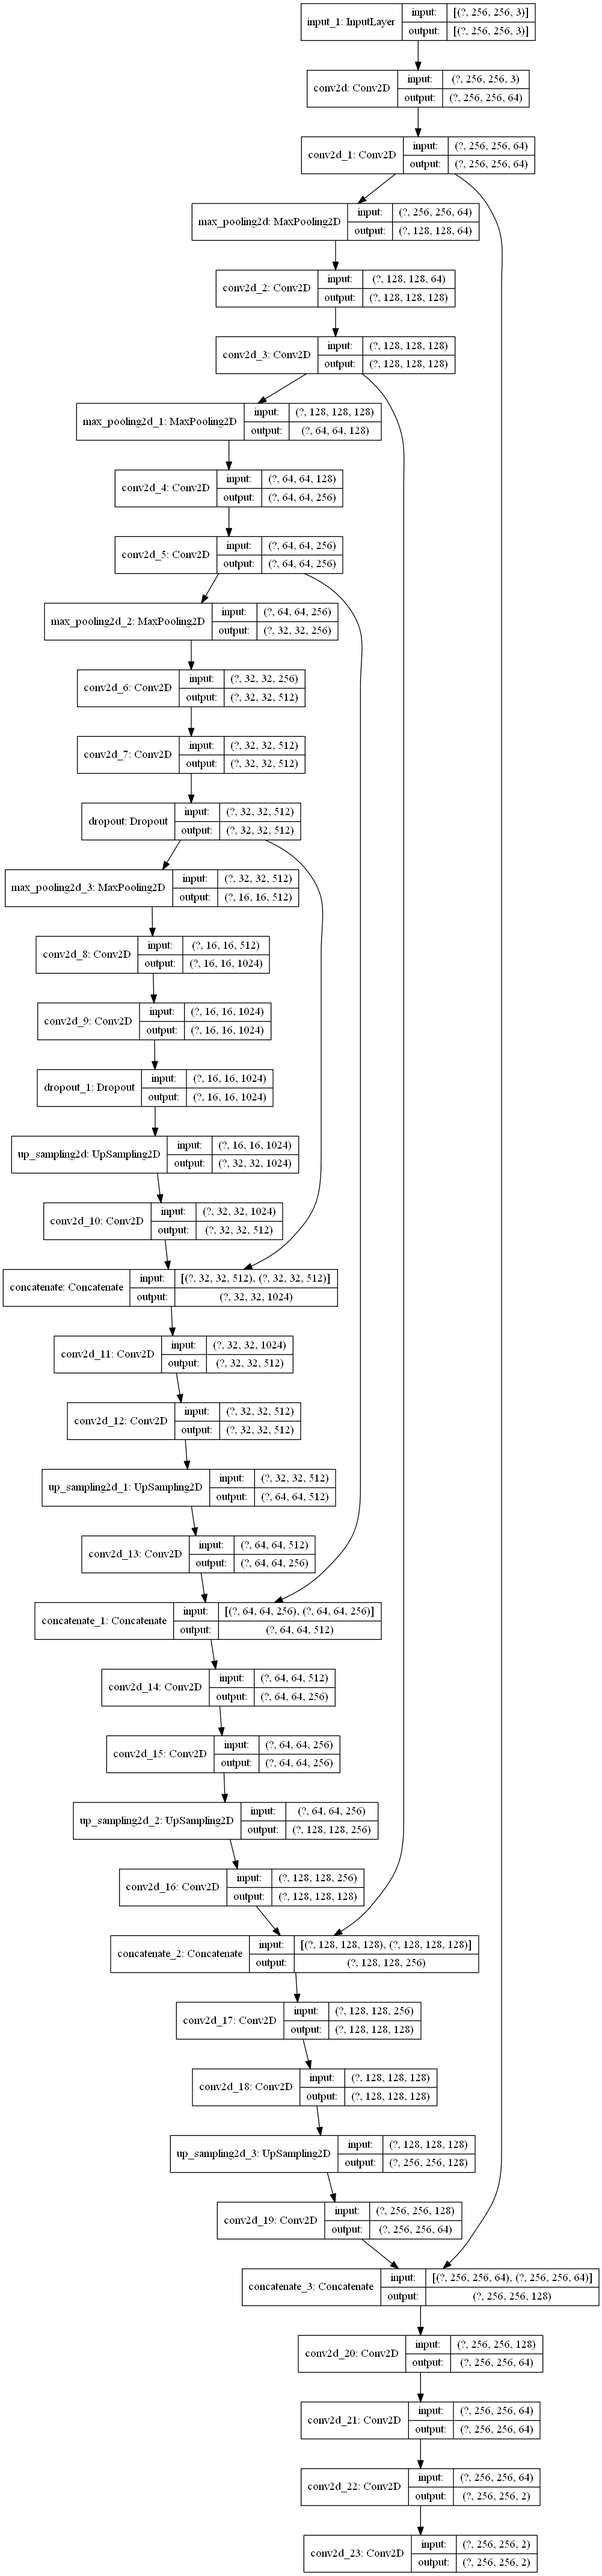
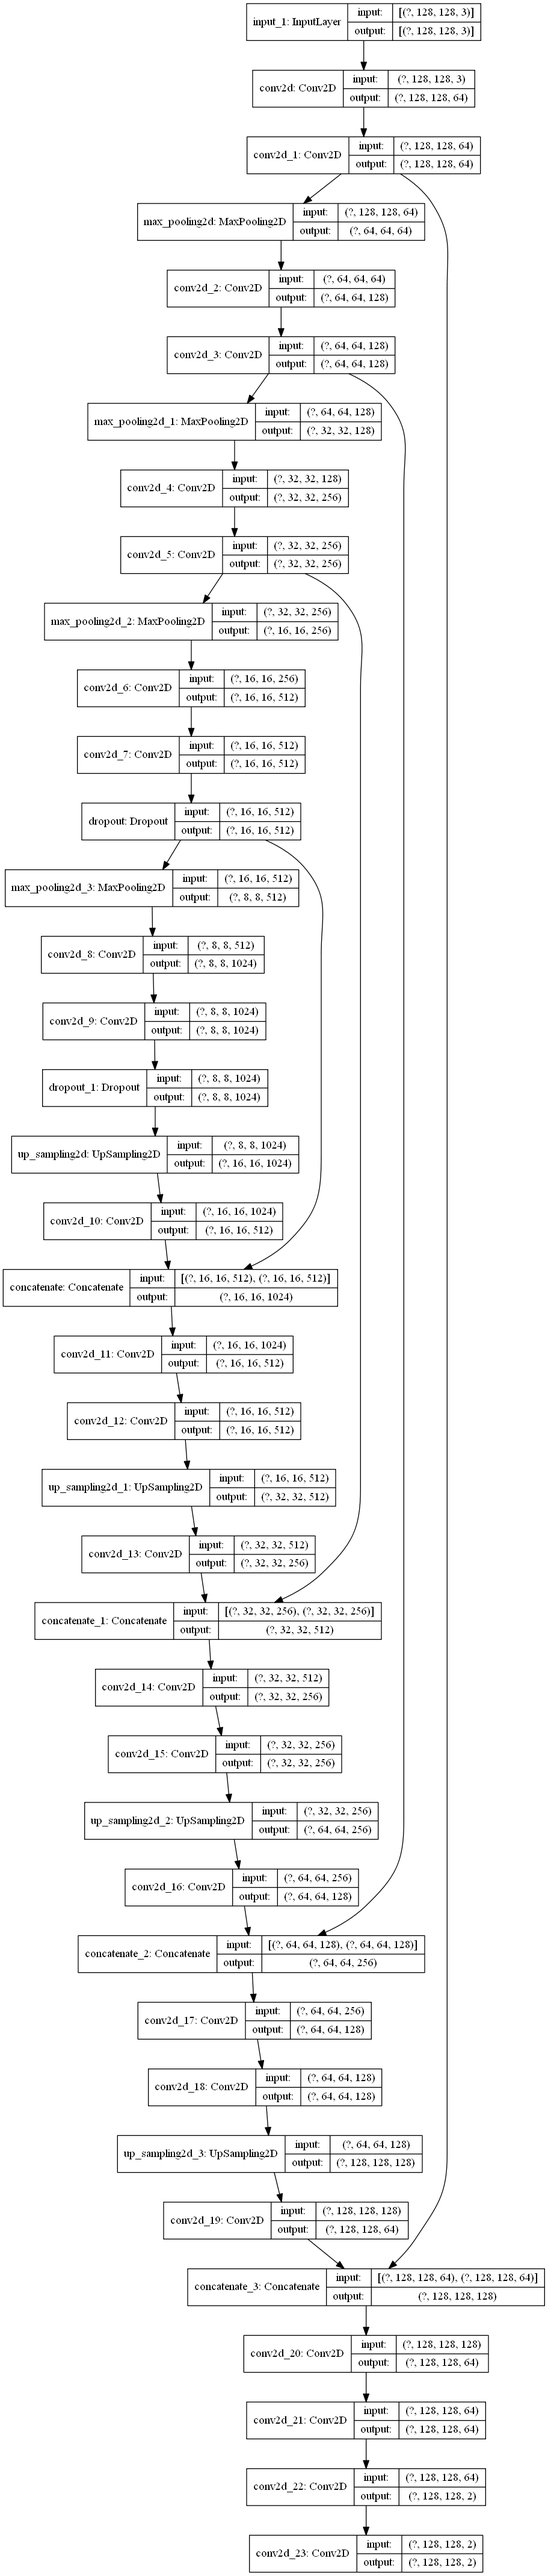
testing

diff --git a/Unet_segmentation_Edges.py b/Unet_segmentation_Edges.py
@@ -5,10 +5,12 @@ from glob import glob
 import matplotlib.pyplot as plt
 import tensorflow as tf
 from tensorflow import keras
+from keras import backend as K
 from tensorflow.keras.models import Model
 from tensorflow.keras.optimizers import Adam
 from tensorflow.keras.layers import Conv2D, Input, MaxPooling2D, Dropout, concatenate, UpSampling2D
 import pix2pix
+import tensorflow_addons as tfa
 # from tensorflow_examples.models.pix2pix import pix2pix
 
 AUTOTUNE = tf.data.experimental.AUTOTUNE
@@ -16,8 +18,8 @@ AUTOTUNE = tf.data.experimental.AUTOTUNE
 print(tf.__version__, end='\n\n')
 
 # param
-IMG_SIZE = 256
-BATCH_SIZE = 8
+IMG_SIZE = 128
+BATCH_SIZE = 16
 OUTPUT_CHANNELS = 2
 EPOCHS = 10
 away_from_computer = False  # to show or not predictions between batches
@@ -181,10 +183,55 @@ for image, mask in train.take(1):
 
 SIZE = IMG_SIZE
 
+#####################################################################   LOSSES
+
+def jaccard_distance(y_true, y_pred, smooth=100):
+    """ Jaccard distance for semantic segmentation.
+    Also known as the intersection-over-union loss.
+    This loss is useful when you have unbalanced numbers of pixels within an image
+    because it gives all classes equal weight. However, it is not the defacto
+    standard for image segmentation.
+    For example, assume you are trying to predict if
+    each pixel is cat, dog, or background.
+    You have 80% background pixels, 10% dog, and 10% cat.
+    If the model predicts 100% background
+    should it be be 80% right (as with categorical cross entropy)
+    or 30% (with this loss)?
+    The loss has been modified to have a smooth gradient as it converges on zero.
+    This has been shifted so it converges on 0 and is smoothed to avoid exploding
+    or disappearing gradient.
+    Jaccard = (|X & Y|)/ (|X|+ |Y| - |X & Y|)
+            = sum(|A*B|)/(sum(|A|)+sum(|B|)-sum(|A*B|))
+    # Arguments
+        y_true: The ground truth tensor.
+        y_pred: The predicted tensor
+        smooth: Smoothing factor. Default is 100.
+    # Returns
+        The Jaccard distance between the two tensors.
+    # References
+        - [What is a good evaluation measure for semantic segmentation?](
+           http://www.bmva.org/bmvc/2013/Papers/paper0032/paper0032.pdf)
+    """
+    intersection = K.sum(y_true * y_pred)
+    sum_ = K.sum(y_true + y_pred)
+    jac = (intersection + smooth) / (sum_ - intersection + smooth)
+    return (1 - jac) * smooth
+
 # Dice Loss implementation
 
-def dice_loss():
-    pass
+def dice_coef(y_true, y_pred, smooth = 1):
+    """
+    Dice = (2*|X & Y|)/ (|X|+ |Y|)
+         =  2*sum(|A*B|)/(sum(A^2)+sum(B^2))
+    ref: https://arxiv.org/pdf/1606.04797v1.pdf
+    """
+    # y_true_f = K.flatten(y_true)
+    # y_pred_f = K.flatten(y_pred)
+    intersection = K.sum(y_true * y_pred)
+    return (2. * intersection + smooth) / (K.sum(y_true) + K.sum(y_pred) + smooth)
+
+def dice_coef_loss(y_true, y_pred):
+    return 1.0 - dice_coef(y_true, y_pred)
 
 # Unet model without pretrained weights
 
@@ -231,7 +278,7 @@ def Unet(num_class, image_size):
     conv9 = Conv2D(2, 3, activation = 'relu', padding = 'same')(conv9)
     conv10 = Conv2D(num_class, 1, activation = 'sigmoid')(conv9)
     model = Model(inputs = inputs, outputs = conv10)
-    model.compile(optimizer = Adam(lr = 1e-4), loss = dice_loss , metrics = ['accuracy'])
+    model.compile(optimizer = Adam(lr = 1e-4), loss = [dice_coef_loss, 'binary_crossentropy'] , metrics = [ dice_coef, 'acc'])
 
     return model
 
